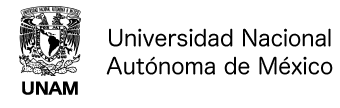
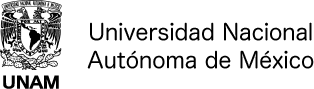
pruebas

diff --git a/plnPython.html b/plnPython.html
@@ -10,22 +10,23 @@
 <body>
 	
 	<div class="encabezado">
-		<div class="logo">
-			<img src="plnPython/unam.png">
+		<div class="logos">
+			<div class="logo">
+				<img src="plnPython/unam.png">
+			</div>
+			<div class="logo">
+				<img src="plnPython/II.png">
+			</div>
+			<div class="logo">
+				<img src="plnPython/LOGOIIUNAM.png">
+			</div>
 		</div>
-		<div class="logo">
-			<img src="plnPython/LOGOIIUNAM.png">
-		</div>
-		<div class="logo">
-			<img src="plnPython/II.png">
-		</div>
-		
 		<h1>PROCESAMIENTO DE LENGUAJE NATURAL CON PYTHON</h1>
 	</div>
 	
 	<div class="intro">
 		<div class="titulo">
-			<p>Nuevo en esto?</p>
+			<p>Herramientas</p>
 		</div>
 	</div>
 	
@@ -52,18 +53,20 @@
 			<a name="patrocinio" id="patrocinio"/>
 			<div class="titulo">
 				<p>Patrocinadores</p>
-			</div>				
-				<div class="logo">
-					<img src="plnPython/conacyt.png">
-				</div>
-				<div class="logo">
-					<img src="plnPython/RTTL.svg">
-				</div>
-				<div class="logo">
-					<img src="plnPython/LOGOIIUNAM.png">
-				</div>
-				<div class="logo">
-					<img src="plnPython/dgapa.png">
+			</div>		
+				<div class="logos">
+					<div class="logo">
+						<img src="plnPython/conacyt.png">
+					</div>
+					<div class="logo">
+						<img src="plnPython/RTTL.svg">
+					</div>
+					<div class="logo">
+						<img src="plnPython/LOGOIIUNAM.png">
+					</div>
+					<div class="logo">
+						<img src="plnPython/dgapa.png">
+					</div>
 				</div>
 		</div>
 	</div>	

diff --git a/plnPython/css.css b/plnPython/css.css
@@ -1,0 +1,25 @@
+body, html {
+	max-width: 800px;
+	margin: auto;
+}
+
+h1 {
+	clear:both;
+	margin-left:5%;
+	margin-right:5%
+}
+
+.encabezado {
+	text-align: center;
+}
+
+.encabezado .logo {
+	display: inline;
+}
+
+.encabezado .logo img{
+	max-width: 28%;
+	max-height: 60px;
+	margin-left:2%;
+	margin-right:2%
+}
